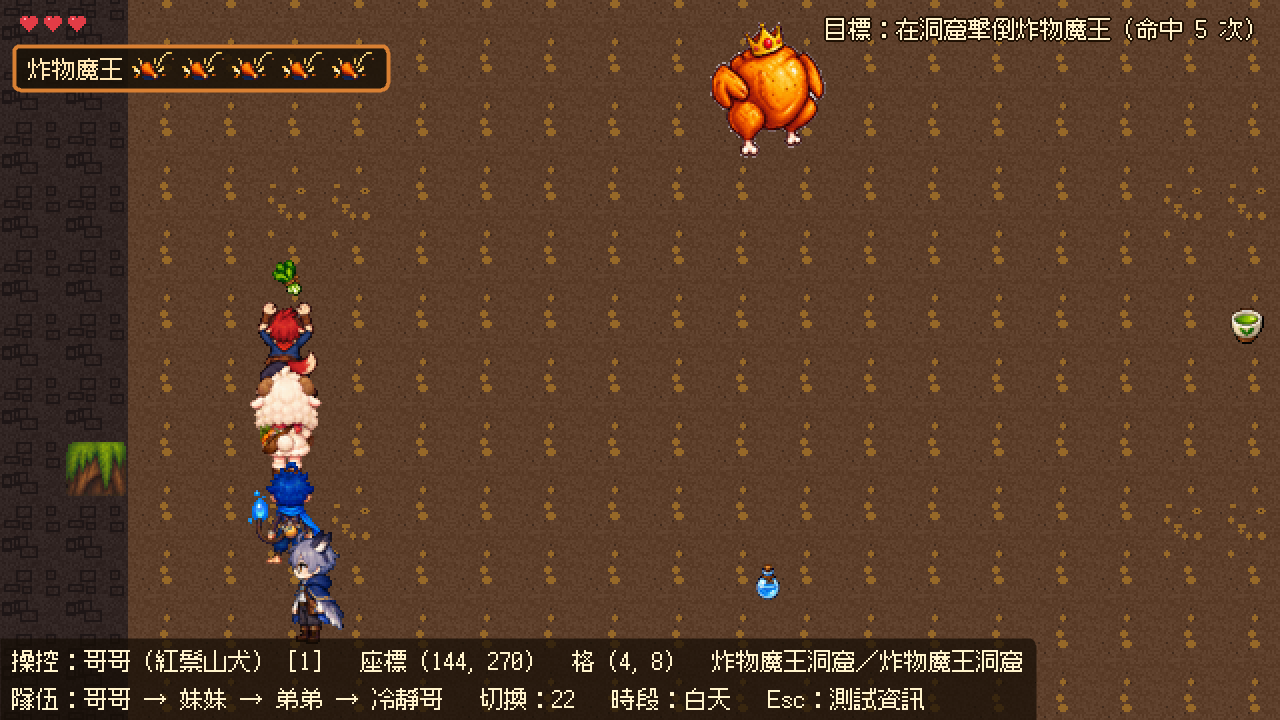
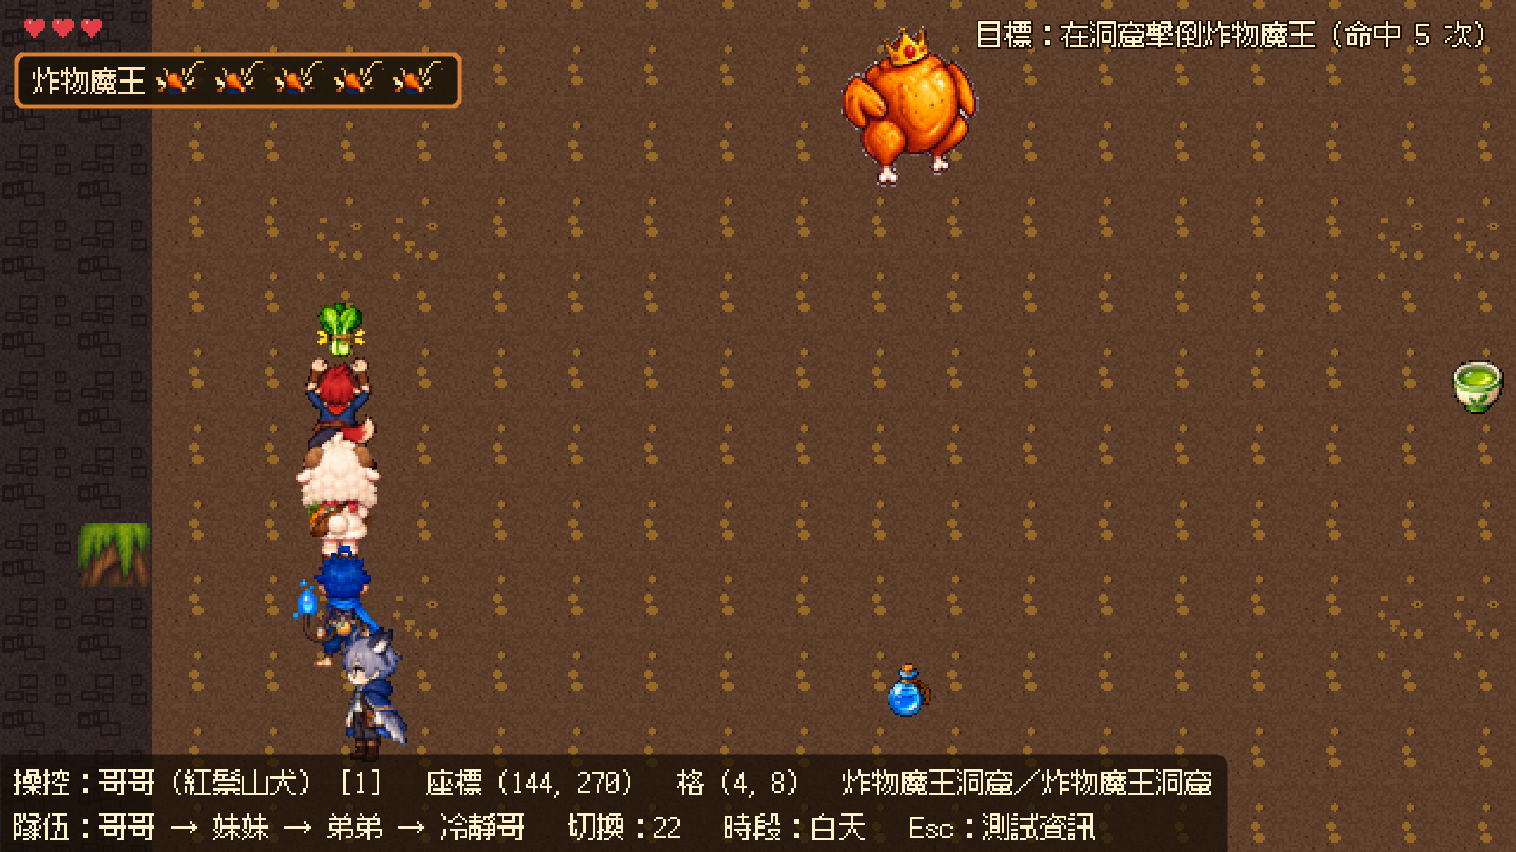
art: 套用 Phase 4 視覺修正版投擲物與洞窟參考
- fast-forward 合併 codex/phase-4-visual-polish（投擲物 v2、洞窟參考 v2、一般幀 18→23px）
- 以本機切割器重新產出三張投擲物精靈表並重新匯入
- 更新 PHASE_4_REPORT 素材表與建議下一步（洞窟正式化需 32×32 tile 組）
- 重拍洞窟截圖 13～15；validate_map、單元測試 154、route test 195 皆通過

Claude-Session: https://claude.ai/code/session_01GHDh8zfAbX2ncmUix9vbN9

diff --git a/docs/PHASE_4_REPORT.md b/docs/PHASE_4_REPORT.md
@@ -55,11 +55,11 @@
 |---|---|---|
 | CC 5×4 參考 | `assets/characters/pets/cc_penguin_sheet.png` 240×256 | 主角切割器，高度縮到 40px（寵物尺寸） |
 | Boss 3×2 參考（棋盤格烙在像素裡） | `assets/characters/boss/fried_food_demon_sheet.png` 480×80（6 幀） | 從四邊泛洪去除連到邊緣的近白中性灰，雞身內的白色骨頭保留 |
-| 投擲物 4×3 | `assets/items/{vegetable_bundle,green_tea,water_flask}.png` 112×28（地面／舉起／飛行／命中） | 依格切割 |
+| 投擲物 4×3（v2，`ITEM_throwables_vegetable_tea_water_reference_v2.png`） | `assets/items/{vegetable_bundle,green_tea,water_flask}.png` 112×28（地面／舉起／飛行／命中） | 依格切割；視覺修正版將一般幀主體高度由 18px 提高為 23px，拾取碰撞與傷害不變 |
 | 特效 3×2 | `assets/effects/fx_teleport／fx_hit_sparkle／fx_poof／fx_victory／fx_chicken_wing.png` | 依格切割；炸雞翅取掉落格中最大的單一元件；投擲軌跡改由程式旋轉與拋物線呈現 |
 | 行動表（四位） | `assets/characters/playable/<id>_action_sheet.png` 96×256 | 4×4 參考取第 0 欄（舉物）與第 2 欄（投擲）；列序 down/right/left/up 轉成專案的 down/left/right/up；縮放以既有站立幀寬度對齊，避免撿起時身形跳動 |
 | 阿嬤參考（原圖由作者補上） | `assets/characters/npcs/grandma_turtle_sheet.png` 240×256 | 參考圖四列相同、每列是五種視角（正面、側面、側面提籃、背面、正面微笑），不是行走表；重組為 down／left（鏡射側面）／right／up 四方向站立幀後交給主角切割器 |
-| **洞窟參考** | — | **分支上的檔案不是 PNG（開頭為亂碼），作者的 Downloads 也沒有這張**。依規劃用 32×32 tile 合成重建（tileset 第 5 列：地面、岩壁、油漬地面、受光牆面） |
+| 洞窟參考（v2，`CAVE_fried_food_demon_arena_reference_v2.png` 768×512） | — | 首次交付的檔案是亂碼，視覺修正版已補上合法 PNG。目前只作構圖參考，遊戲內仍用 32×32 合成 tile（tileset 第 5 列：地面、岩壁、油漬地面、受光牆面），未拿參考圖當背景，以免破壞碰撞格 |
 | 早餐攤、香椿乾拌麵圖示、💢、愛心 | `assets/props/breakfast_stall.png`、`assets/ui/*.png` | 程式繪製 |
 
 ## 2. 新增與修改的檔案
@@ -159,6 +159,6 @@ docs/MANUAL_TEST_GUIDE.md、README.md、AGENTS.md、docs/ASSET_REQUEST.md
 
 ## 7. 建議下一步
 
-1. 請遠端重新交付洞窟參考圖（若能附 32×32 tile 組更好）；到位後只要重跑 `tools/build_assets.py` 並 `--import`。
+1. 洞窟若要正式化，請遠端另附 32×32 洞窟 tile 組（地面 2 款、岩壁面、岩壁頂、四角、晶簇），再改 `build_cave_tiles` 從 tile 組切割取代合成。
 2. 若要做「休息進入下一天」，建議在 `GameState` 加 `day` 欄位（schema_version 3）並由家庭屋的床互動觸發。
 3. 好感度、CC 小動作種類、Boss 第二種攻擊都可以只改 `PetFollower`／`FriedFoodDemon`，不動其他系統。
